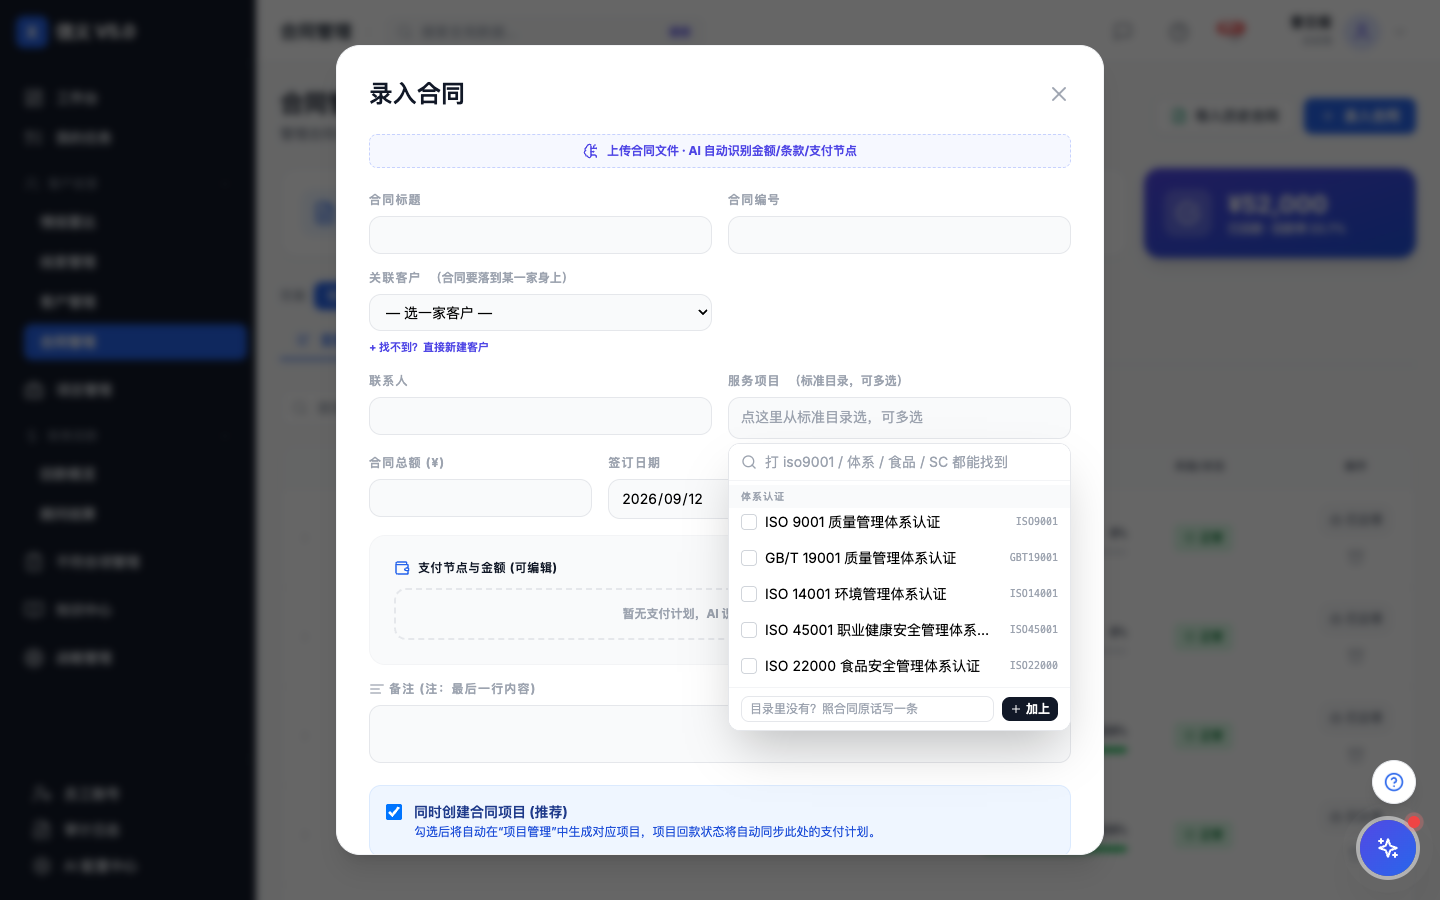
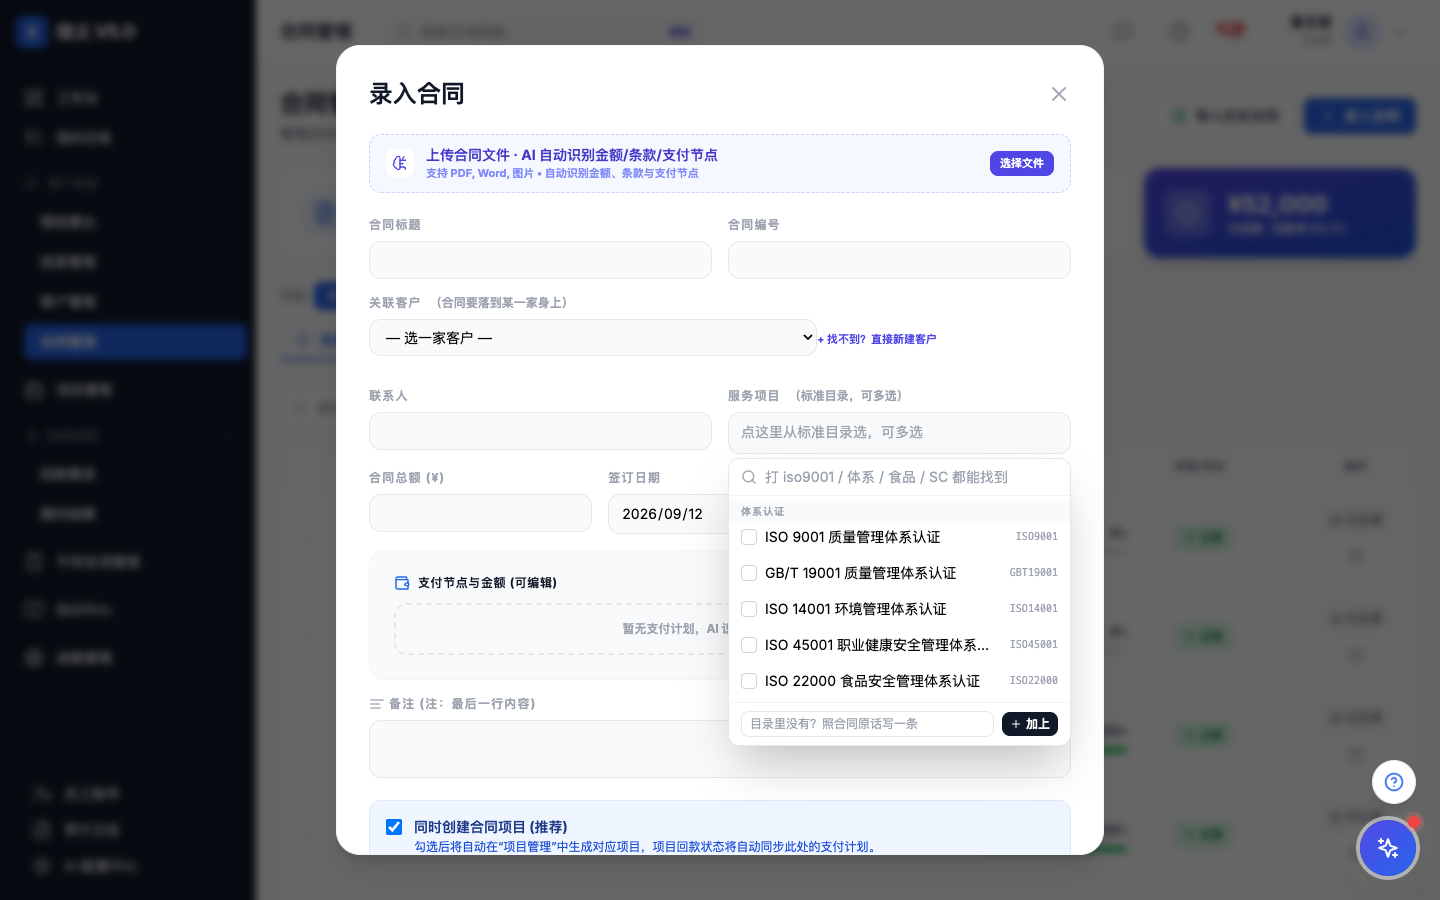
style: 合同弹窗排版收尾 —— 补上传区的存在感，关联客户占整行
金恩来：「少了客户名称后，那里空着，排版看起来有点奇怪；
上传合同区域虽然小了看起来也不协调，同时也容易忽略上传合同的窗口，
提示好像不够直观」。他还说「若是改动对上线来说有风险，也可以先就这样」——
这一处只动样式，不碰数据和权限，风险低，所以做了。

① 右边那个洞
   原来是两列：左关联客户、右客户名称。客户名称去掉后右格空着，
   而左边那格还挂着三样附属内容（新建客户的口子、AI 对照行、
   不绑定时的名称框），挤在半行里本来就局促。
   改成整行：洞没了，附属内容也有地方站；下拉自己收在 max-w-md，
   一个公司名不需要占满 700px。

② 上传区「不协调、容易忽略」
   第一版 compact 是一行居中的小字按钮，长得像个次要链接 ——
   而它其实是这张表**最省事的那条路**：传一份合同，下面十个字段自己填好。
   改成 左图标 + 两行字（做什么/省了什么）+ 右侧「选择文件」按钮，约 59px。

   顺带修一个实打实的缺陷：**compact 分支原来只有 input，没挂 drag 事件**，
   拖文件上去毫无反应。「不够直观」有一半是这个。

   改的是共享的 compact 变体（客户页证书上传也用它），没有新增第三份 ——
   这两天最贵的几个 bug 全都来自"第二份"。改完实测客户详情页无报错、正常渲染。

实测 800/900 两个视口：上传区 59px、下拉整块在屏内、关联客户链路照旧全过。

⚠ 有一轮 npm test 出现过 1 条失败，之后连跑 5 轮全绿，没能复现、
也没抓到是哪一条。不当作已解决，继续留意。

diff --git a/components/IngestionUploader.tsx b/components/IngestionUploader.tsx
@@ -89,9 +89,38 @@ export const IngestionUploader: React.FC<IngestionUploaderProps> = ({
     if (picked) handleFile(picked);
   };
 
+  /*
+    ── compact：小，但不能小到看不见（2026-09-12 二改）──────────────
+
+    金恩来：「上传合同区域虽然小了看起来也不协调，同时也容易忽略
+    上传合同的窗口，提示好像不够直观」。
+
+    第一版 compact 是一行居中的小字按钮 —— 确实不占地方，
+    但它长得像个次要链接，而这其实是这张表**最省事的那条路**：
+    传一份合同，下面十个字段自己填好。该被看见。
+
+    三处改动：
+      · 左图标 + 两行字（做什么 / 省了什么），不再是一行居中小字
+      · **补上拖拽** —— 原来 compact 分支只有 input，没挂 drag 事件，
+        拖文件上去毫无反应。「不够直观」有一半是这个。
+      · 高度 ~56px：比原来的一行高一点，但离那个 180px 的大块很远
+
+    保持一行的形态，是因为它在弹窗里和别的字段排在一起，
+    做成大方块又会回到「上传区吃掉半屏」那个问题。
+  */
   if (compact) {
     return (
-      <div className="relative group">
+      <div
+        className={`relative group rounded-xl border border-dashed transition-all
+          ${dragActive ? 'border-indigo-500 bg-indigo-50' : ''}
+          ${errorMsg ? 'border-red-300 bg-red-50' : 'border-indigo-200 bg-indigo-50/50 hover:bg-indigo-50 hover:border-indigo-300'}
+          ${disabled ? 'opacity-50 cursor-not-allowed' : 'cursor-pointer'}
+        `}
+        onDragEnter={handleDrag}
+        onDragLeave={handleDrag}
+        onDragOver={handleDrag}
+        onDrop={handleDrop}
+      >
         <input
           type="file"
           accept={accept}
@@ -99,23 +128,30 @@ export const IngestionUploader: React.FC<IngestionUploaderProps> = ({
           disabled={disabled || isProcessing}
           className="absolute inset-0 w-full h-full opacity-0 cursor-pointer z-10"
         />
-        <button 
-          className={`w-full flex items-center justify-center space-x-2 px-4 py-2 rounded-lg border border-dashed transition-all
-            ${errorMsg ? 'border-red-300 bg-red-50 text-red-600' : 'border-indigo-200 bg-indigo-50/50 text-indigo-600 hover:bg-indigo-50'}
-            ${disabled ? 'opacity-50 cursor-not-allowed' : ''}
-          `}
-        >
-          {isProcessing ? (
-            <Loader2 className="w-4 h-4 animate-spin" />
-          ) : errorMsg ? (
-            <AlertCircle className="w-4 h-4" />
-          ) : (
-            <BrainCircuit className="w-4 h-4" />
-          )}
-          <span className="text-xs font-bold">
-            {isProcessing ? 'AI 识别中...' : errorMsg ? '识别失败(重试)' : label}
+        <div className="flex items-center gap-3 px-4 py-2.5">
+          <span className={`shrink-0 rounded-lg p-1.5 ${errorMsg ? 'bg-red-100' : 'bg-white'}`}>
+            {isProcessing ? (
+              <Loader2 className="h-4 w-4 animate-spin text-indigo-600" />
+            ) : errorMsg ? (
+              <AlertCircle className="h-4 w-4 text-red-500" />
+            ) : (
+              <BrainCircuit className="h-4 w-4 text-indigo-600" />
+            )}
           </span>
-        </button>
+          <span className="min-w-0 flex-1 text-left">
+            <span className={`block truncate text-sm font-bold ${errorMsg ? 'text-red-600' : 'text-indigo-700'}`}>
+              {isProcessing ? 'AI 识别中…' : errorMsg ? '识别失败，点一下重试' : label}
+            </span>
+            {!isProcessing && !errorMsg && subLabel && (
+              <span className="block truncate text-[11px] font-bold text-indigo-400">{subLabel}</span>
+            )}
+          </span>
+          {!isProcessing && !errorMsg && (
+            <span className="shrink-0 rounded-lg bg-indigo-600 px-2.5 py-1 text-[11px] font-black text-white group-hover:bg-indigo-700">
+              选择文件
+            </span>
+          )}
+        </div>
       </div>
     );
   }

diff --git a/tests/contract-visibility.test.js b/tests/contract-visibility.test.js
@@ -190,3 +190,41 @@ test('服务下拉放不下就往上开，不许被滚动容器裁掉', () => {
   assert.match(picker, /bottom-full/, '没有往上开的那一档');
   assert.match(picker, /window\.innerHeight - r\.bottom/, '没有量下方剩余空间');
 });
+
+test('compact 上传区要能拖拽，而且看得见', () => {
+  /*
+    2026-09-12 金恩来：「上传合同区域虽然小了看起来也不协调，
+    同时也容易忽略上传合同的窗口，提示好像不够直观」。
+
+    第一版 compact 是一行居中的小字按钮，长得像个次要链接 ——
+    而它其实是这张表**最省事的那条路**：传一份合同，下面十个字段自己填好。
+
+    更实在的问题：compact 分支原来只有一个 <input>，**没挂 drag 事件** ——
+    拖文件上去毫无反应。「不够直观」有一半是这个。
+  */
+  const src = read('components/IngestionUploader.tsx');
+  const at = src.indexOf('if (compact)');
+  assert.ok(at > 0, '找不到 compact 分支');
+  const branch = src.slice(at, src.indexOf('return (', src.indexOf('}', at)) + 2000);
+  for (const h of ['onDragEnter', 'onDragOver', 'onDrop']) {
+    assert.ok(branch.includes(h), `compact 分支缺 ${h} —— 拖文件上去没反应`);
+  }
+  assert.match(branch, /subLabel/, 'compact 里没有副标题，看不出这么做能省什么');
+});
+
+test('关联客户占整行 —— 右边不许再空一格', () => {
+  /*
+    「少了客户名称后，那里空着，排版看起来有点奇怪」。
+
+    原来是两列：左关联客户、右客户名称。客户名称去掉后右格就空着，
+    而左边那一格还挂着三样附属内容（新建口子、AI 对照行、
+    不绑定时的名称框），挤在半行里本来就局促。
+  */
+  const page = code('pages/Contracts.tsx');
+  const at = page.indexOf('关联客户');
+  const before = page.slice(Math.max(0, at - 600), at);
+  assert.ok(!/grid-cols-2 gap-4">\s*<div>\s*$/.test(before),
+    '关联客户又被塞回两列里了，右边会空一格');
+  assert.match(page, /grid grid-cols-1 gap-4">[\s\S]{0,1200}?关联客户/,
+    '关联客户不是整行');
+});

diff --git a/pages/Contracts.tsx b/pages/Contracts.tsx
@@ -1716,7 +1716,19 @@ const Contracts = () => {
                           </div>
                         </div>
                         {/* ... Rest of the form is unchanged ... */}
-                        <div className="grid grid-cols-2 gap-4">
+                        {/*
+                          关联客户占整行（2026-09-12 二改）。
+
+                          金恩来：「少了客户名称后，那里空着，排版看起来有点奇怪」。
+
+                          原来这是两列：左边关联客户、右边客户名称。
+                          客户名称去掉之后右格就空在那儿 —— 而左边这一格
+                          其实还挂着三样附属内容（新建客户的口子、AI 对照行、
+                          不绑定时的名称框），挤在半行里本来就局促。
+
+                          改成整行：洞没了，附属内容也终于有地方站。
+                        */}
+                        <div className="grid grid-cols-1 gap-4">
                           <div>
                             {/*
                               ── 合同必须落到某一家客户身上（2026-09-12）────────────
@@ -1741,7 +1753,8 @@ const Contracts = () => {
                               关联客户 <span className="ml-1 font-bold normal-case tracking-normal text-gray-400">（合同要落到某一家身上）</span>
                             </label>
                             <select
-                              className="w-full px-3 py-2 border border-gray-200 bg-gray-50 rounded-xl focus:ring-2 focus:ring-blue-500/20 focus:outline-none text-sm"
+                              /* 控件宽度跟内容走：一个公司名不需要占满整行 */
+                              className="w-full max-w-md px-3 py-2 border border-gray-200 bg-gray-50 rounded-xl focus:ring-2 focus:ring-blue-500/20 focus:outline-none text-sm"
                               value={formData.customerId}
                               onChange={(e) => applyCustomerSelection(e.target.value)}
                             >
